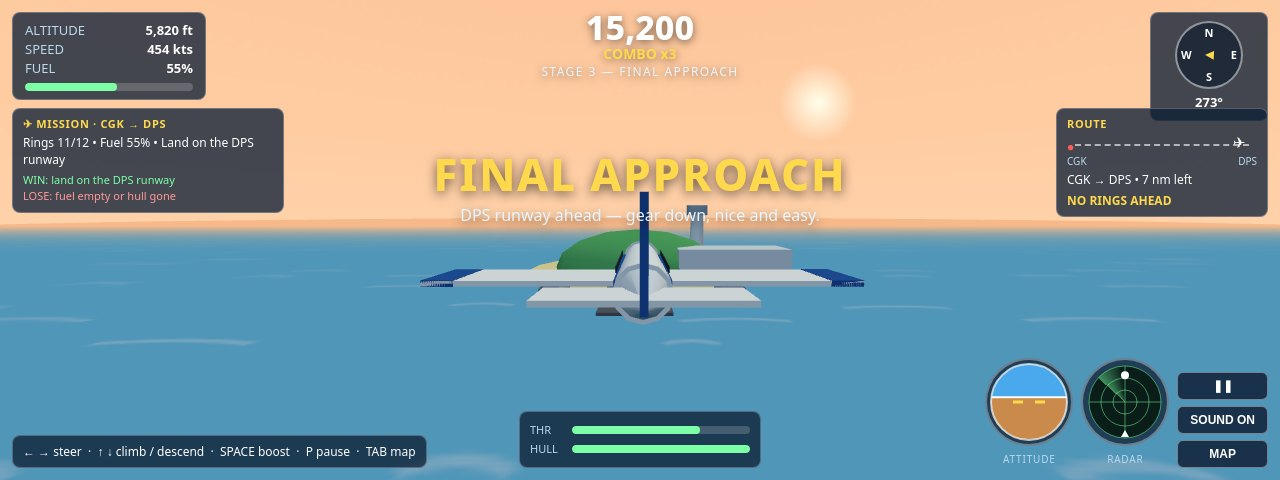
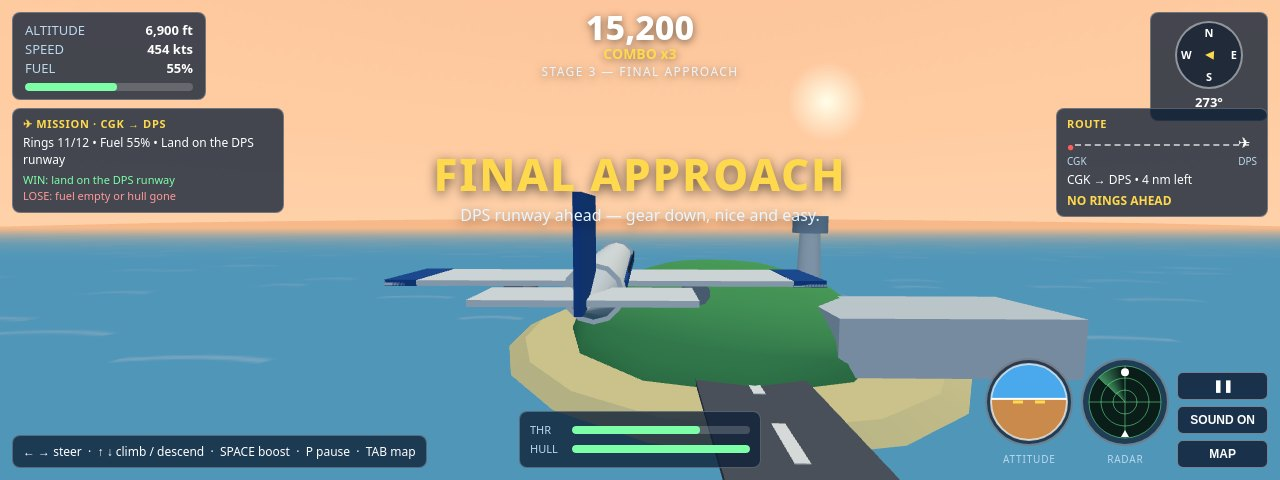
Fix approach shot staging: offset plane left of centreline, closer to runway
The runway strip was hidden behind the plane at the old staging.
Now the strip + centreline dashes + terminal + tower read beside
the plane in the sunset final-approach frame.

diff --git a/game/src/shots.js b/game/src/shots.js
@@ -55,7 +55,9 @@ export function applyShot(game, name) {
   }
   if (name === 'approach') {
     game.startFlight();
-    game.setFlight(112, 0.32, 0.02, 15200, 11, 55);
+    // Offset the plane left of the centreline and park it closer to the
+    // runway so the strip reads beside the plane, not behind it.
+    game.setFlight(115, 0.4, -0.3, 15200, 11, 55);
     state.phase = PHASE.FLYING;
     state.time = 100;
     game.showToast('FINAL APPROACH', 'DPS runway ahead — gear down, nice and easy.', 999, 'good');
